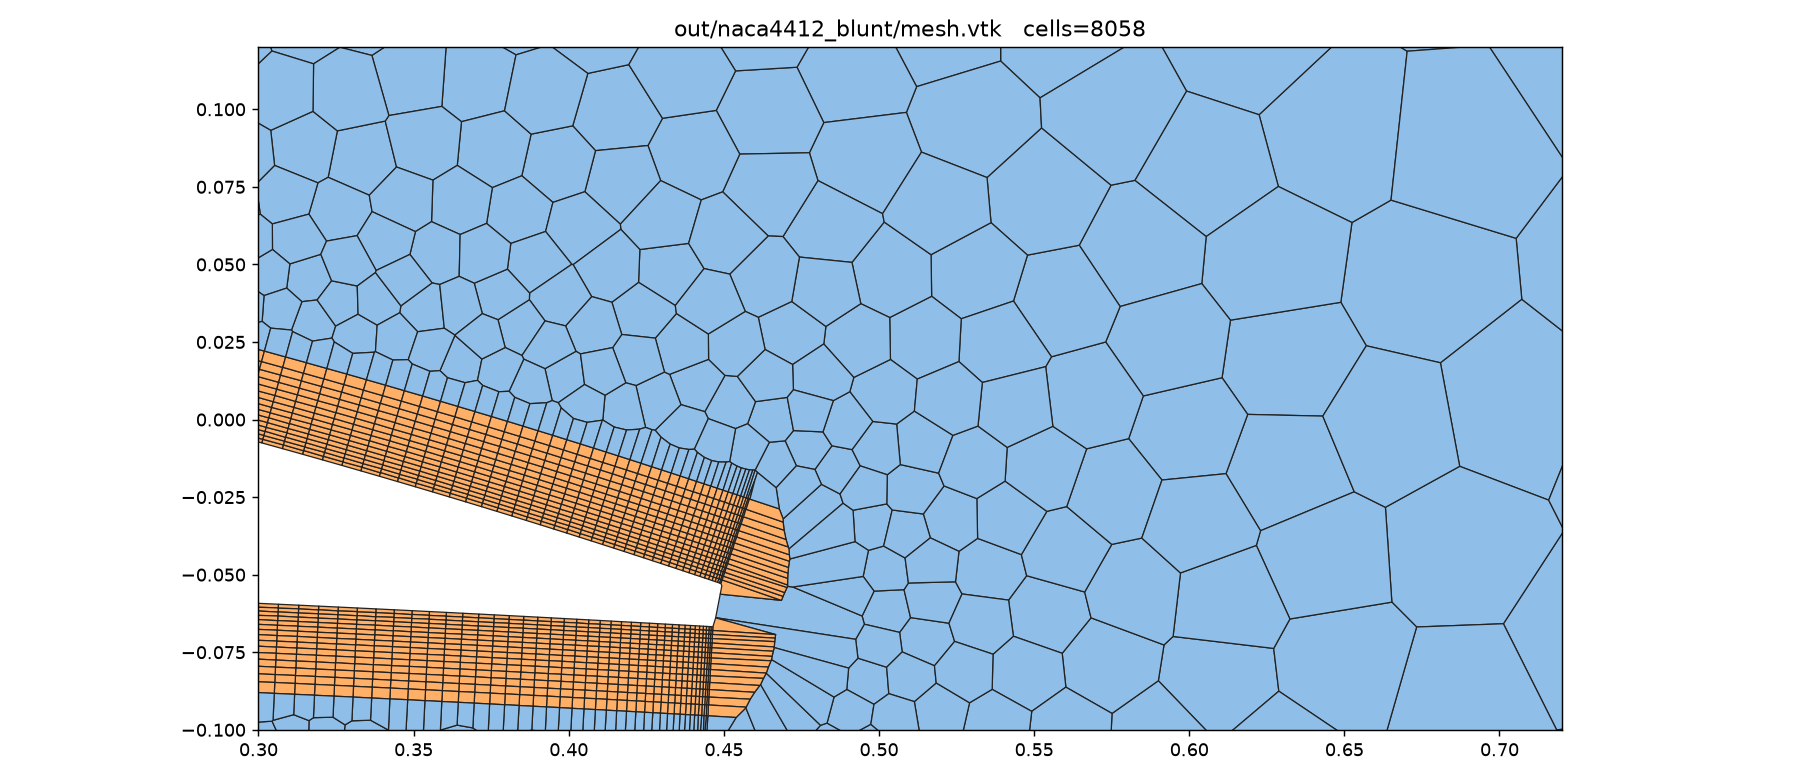
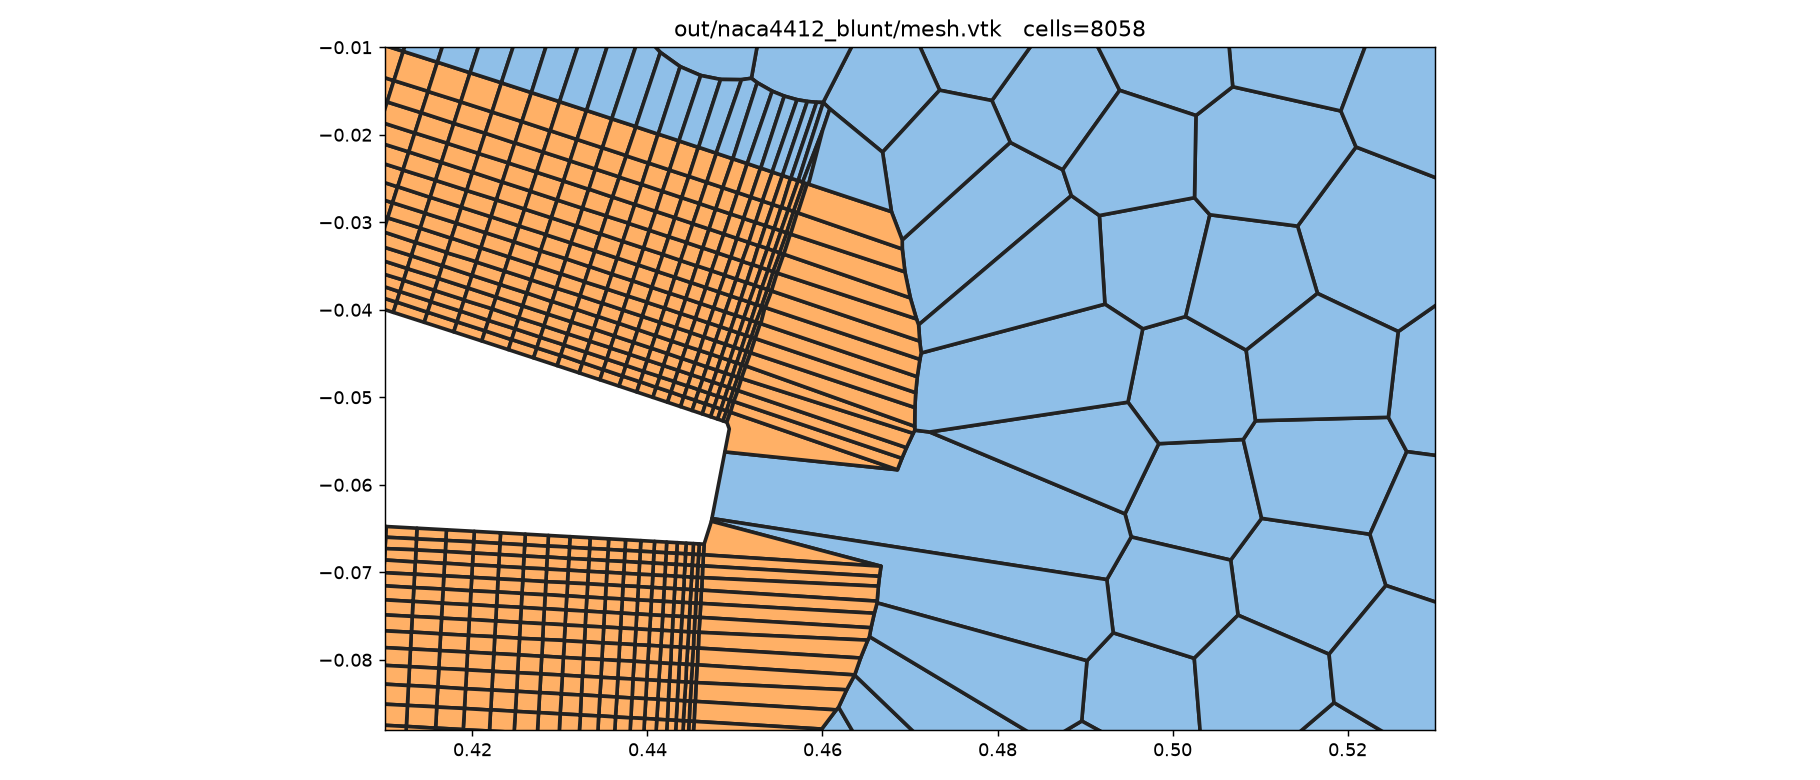
Resolve the blunt trailing-edge base with ~5 cells
Refine the size field in a flat region around a blunt TE base to
base_thickness / 5, so the base is resolved by ~5 polyhedral cells across
(verified: NACA 4412 blunt 6 base faces, RAE 2822 blunt 5). Cut the RAE 2822
blunt case a bit earlier (teCut 0.95 -> 0.90) so its cusped base is thick enough
to carry that many cells. Refresh blunt-TE preview images.

Meshes still pass polyMesh validation.

Claude-Session: https://claude.ai/code/session_01H7fb4XKKcHpsxCit9RfSzp

diff --git a/src/main.cpp b/src/main.cpp
@@ -313,10 +313,20 @@ static void runAirfoil(const std::string& name, const AirfoilShape& s) {
 
     const int afLoop = 1;
     const double band = afPrism.totalThickness(), hWall = 0.006;
+    // For a blunt TE, resolve the base with ~5 cells across (refine the size
+    // field near the base to base_thickness / 5).
+    const bool blunt = s.bluntTE;
+    const Vec2 baseMid = blunt ? Vec2{(s.teU.x + s.teL.x) * 0.5, (s.teU.y + s.teL.y) * 0.5} : Vec2{};
+    const double baseH = blunt ? dist(s.teU, s.teL) : 0.0;
     Mesher::Options mo;
-    mo.sizeField = [&dom, afLoop, band, hWall](Vec2 p) {
-        const double d = dom.distanceToLoop(p, afLoop);
-        return std::clamp(hWall + 0.13 * std::max(0.0, d - band), hWall, 0.6);
+    mo.sizeField = [&dom, afLoop, band, hWall, blunt, baseMid, baseH](Vec2 p) {
+        double h = std::clamp(hWall + 0.13 * std::max(0.0, dom.distanceToLoop(p, afLoop) - band),
+                              hWall, 0.6);
+        if (blunt) {                              // ~5 cells across the TE base
+            const double target = baseH / 5.0, db = dist(p, baseMid);
+            h = std::min(h, db < 0.6 * baseH ? target : target + 0.3 * (db - 0.6 * baseH));
+        }
+        return h;
     };
     mo.lloydIters = 5;
     mo.transitionRing = true;
@@ -334,7 +344,7 @@ static void caseProfiles() {
     runAirfoil("naca4412_blunt", placeAirfoil(naca4(4, 4, 12, 160, 0.95), chord, le, aoa));
     AirfoilShape rae = loadSeligDat("data/rae2822.dat");
     runAirfoil("rae2822_sharp", placeAirfoil(rae, chord, le, aoa));
-    runAirfoil("rae2822_blunt", placeAirfoil(truncateTE(rae, 0.95), chord, le, aoa));
+    runAirfoil("rae2822_blunt", placeAirfoil(truncateTE(rae, 0.90), chord, le, aoa));
 }
 
 int main(int argc, char** argv) {
